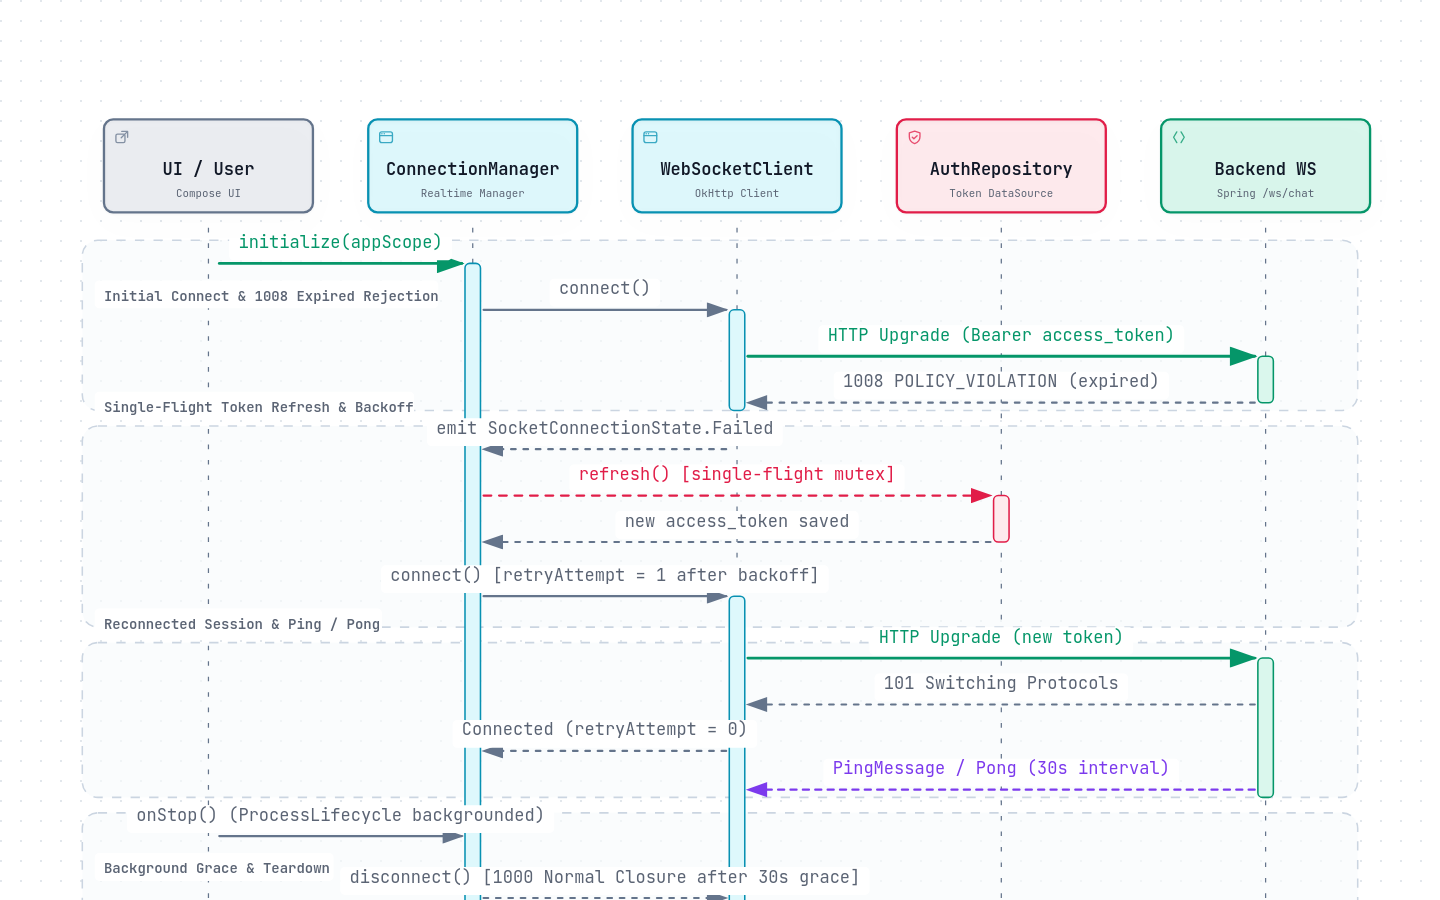
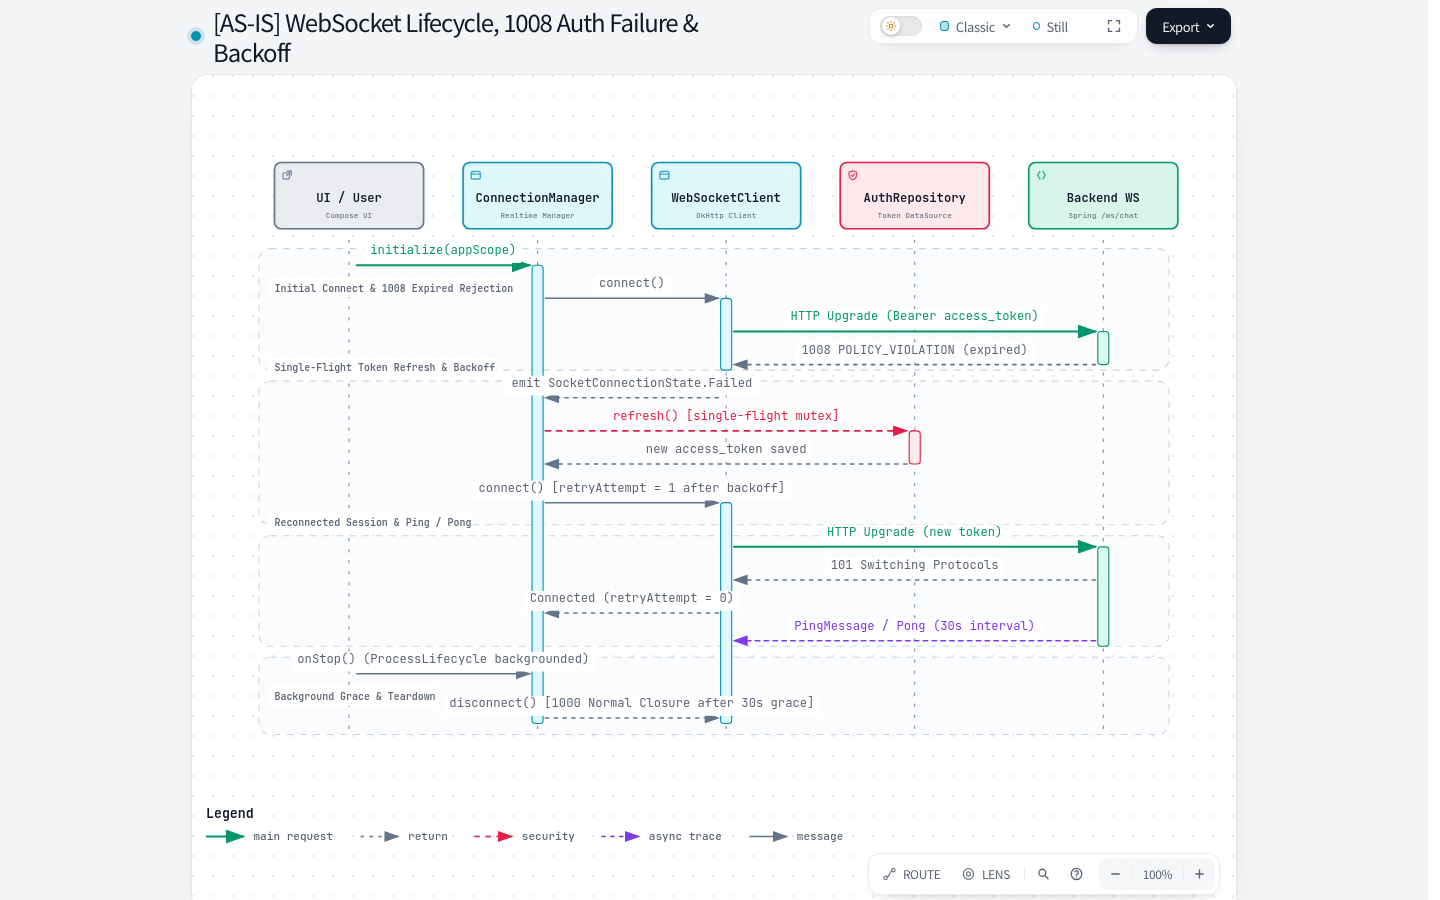
feat(architecture): promote ws-lifecycle flow specification from PLANNED to AS-IS
- Promote ws-lifecycle sequence flow from [PLANNED] to [AS-IS] following Track A verification
- Re-render interactive HTML viewer with archify (all 9 checks passed)
- Re-export 1440x900 dark and light static image assets in docs/architecture/assets/
- Update master flow registry in docs/architecture/flows/README.md

Assisted-by: Gemini 3.8 Flash

diff --git a/docs/architecture/interactive/flows/ws-lifecycle.html b/docs/architecture/interactive/flows/ws-lifecycle.html
@@ -5,7 +5,7 @@
   <meta name="viewport" content="width=device-width, initial-scale=1.0">
   <meta name="generator" content="archify 3.2.0">
   <meta name="archify-reader-contract" content="declared-wide-v1">
-  <title>[PLANNED] WebSocket Lifecycle, 1008 Auth Failure &amp; Backoff Diagram</title>
+  <title>[AS-IS] WebSocket Lifecycle, 1008 Auth Failure &amp; Backoff Diagram</title>
   <script>
     // Resolve the theme before first paint so light-preference users don't
     // see a dark flash. The toolbar script below re-applies with UI state.
@@ -5194,7 +5194,7 @@ OTHER DEALINGS IN THE FONT SOFTWARE.
            data-preset-badge-blueprint="BLUEPRINT / REV 01"
            data-preset-badge-editorial="EDITORIAL / FIELD NOTE">
         <div class="pulse-dot"></div>
-        <h1>[PLANNED] WebSocket Lifecycle, 1008 Auth Failure &amp; Backoff</h1>
+        <h1>[AS-IS] WebSocket Lifecycle, 1008 Auth Failure &amp; Backoff</h1>
       </div>
     </div>
 
@@ -5204,7 +5204,7 @@ OTHER DEALINGS IN THE FONT SOFTWARE.
     <div class="diagram-container" data-detail-level="read"
          data-preset-badge-editorial-plate="ARCHIFY / PLATE 04">
       <svg viewBox="0 0 920 688" data-sequence-column-fit="spread" data-reader-fit="width-first" role="img" lang="en" aria-labelledby="archify-diagram-title archify-diagram-description" data-animation="trace" data-preset="classic" data-quality-profile="showcase" data-motion-choreography="sequence">
-        <title id="archify-diagram-title">[PLANNED] WebSocket Lifecycle, 1008 Auth Failure &amp; Backoff</title>
+        <title id="archify-diagram-title">[AS-IS] WebSocket Lifecycle, 1008 Auth Failure &amp; Backoff</title>
         <desc id="archify-diagram-description">A sequence diagram generated by Archify.</desc>
         <!-- Definitions -->
         <defs>

diff --git a/docs/architecture/flows/README.md b/docs/architecture/flows/README.md
@@ -10,7 +10,7 @@ In accordance with `docs/PHILOSOPHY.md` Section 5, every change touching a commu
 
 | Flow Name | Diagram Type | Status | Specification (JSON SSOT) | Interactive Viewer (HTML) | Static Preview (Dark / Light) | Owning Track | Asserting Test Suite |
 |---|---|---|---|---|---|---|---|
-| **WebSocket Lifecycle & Backoff** | `sequence` | `[PLANNED]` | [`ws-lifecycle.sequence.archify.json`](../specifications/flows/ws-lifecycle.sequence.archify.json) | [`ws-lifecycle.html`](../interactive/flows/ws-lifecycle.html) | [Dark](../assets/ws-lifecycle.png) / [Light](../assets/ws-lifecycle.light.png) | Track A | `:core:network` MockWebServer WS Suite & `RealtimeConnectionManagerTest` |
+| **WebSocket Lifecycle & Backoff** | `sequence` | `[AS-IS]` | [`ws-lifecycle.sequence.archify.json`](../specifications/flows/ws-lifecycle.sequence.archify.json) | [`ws-lifecycle.html`](../interactive/flows/ws-lifecycle.html) | [Dark](../assets/ws-lifecycle.png) / [Light](../assets/ws-lifecycle.light.png) | Track A | `:core:network` MockWebServer WS Suite & `RealtimeConnectionManagerTest` |
 | **Single-Flight Token Refresh** | `sequence` | `[AS-IS]` | [`token-refresh.sequence.archify.json`](../specifications/flows/token-refresh.sequence.archify.json) | [`token-refresh.html`](../interactive/flows/token-refresh.html) | [Dark](../assets/token-refresh.png) / [Light](../assets/token-refresh.light.png) | Track A | `TokenAuthenticatorTest` & `RetrofitAuthNetworkTest` |
 | **Optimistic Send & Idempotency** | `sequence` | `[AS-IS]` | [`optimistic-send.sequence.archify.json`](../specifications/flows/optimistic-send.sequence.archify.json) | [`optimistic-send.html`](../interactive/flows/optimistic-send.html) | [Dark](../assets/optimistic-send.png) / [Light](../assets/optimistic-send.light.png) | Track A / B | `ChatMessageRepositoryTest` & Backend `ChatWebSocketHandlerTest` |
 
